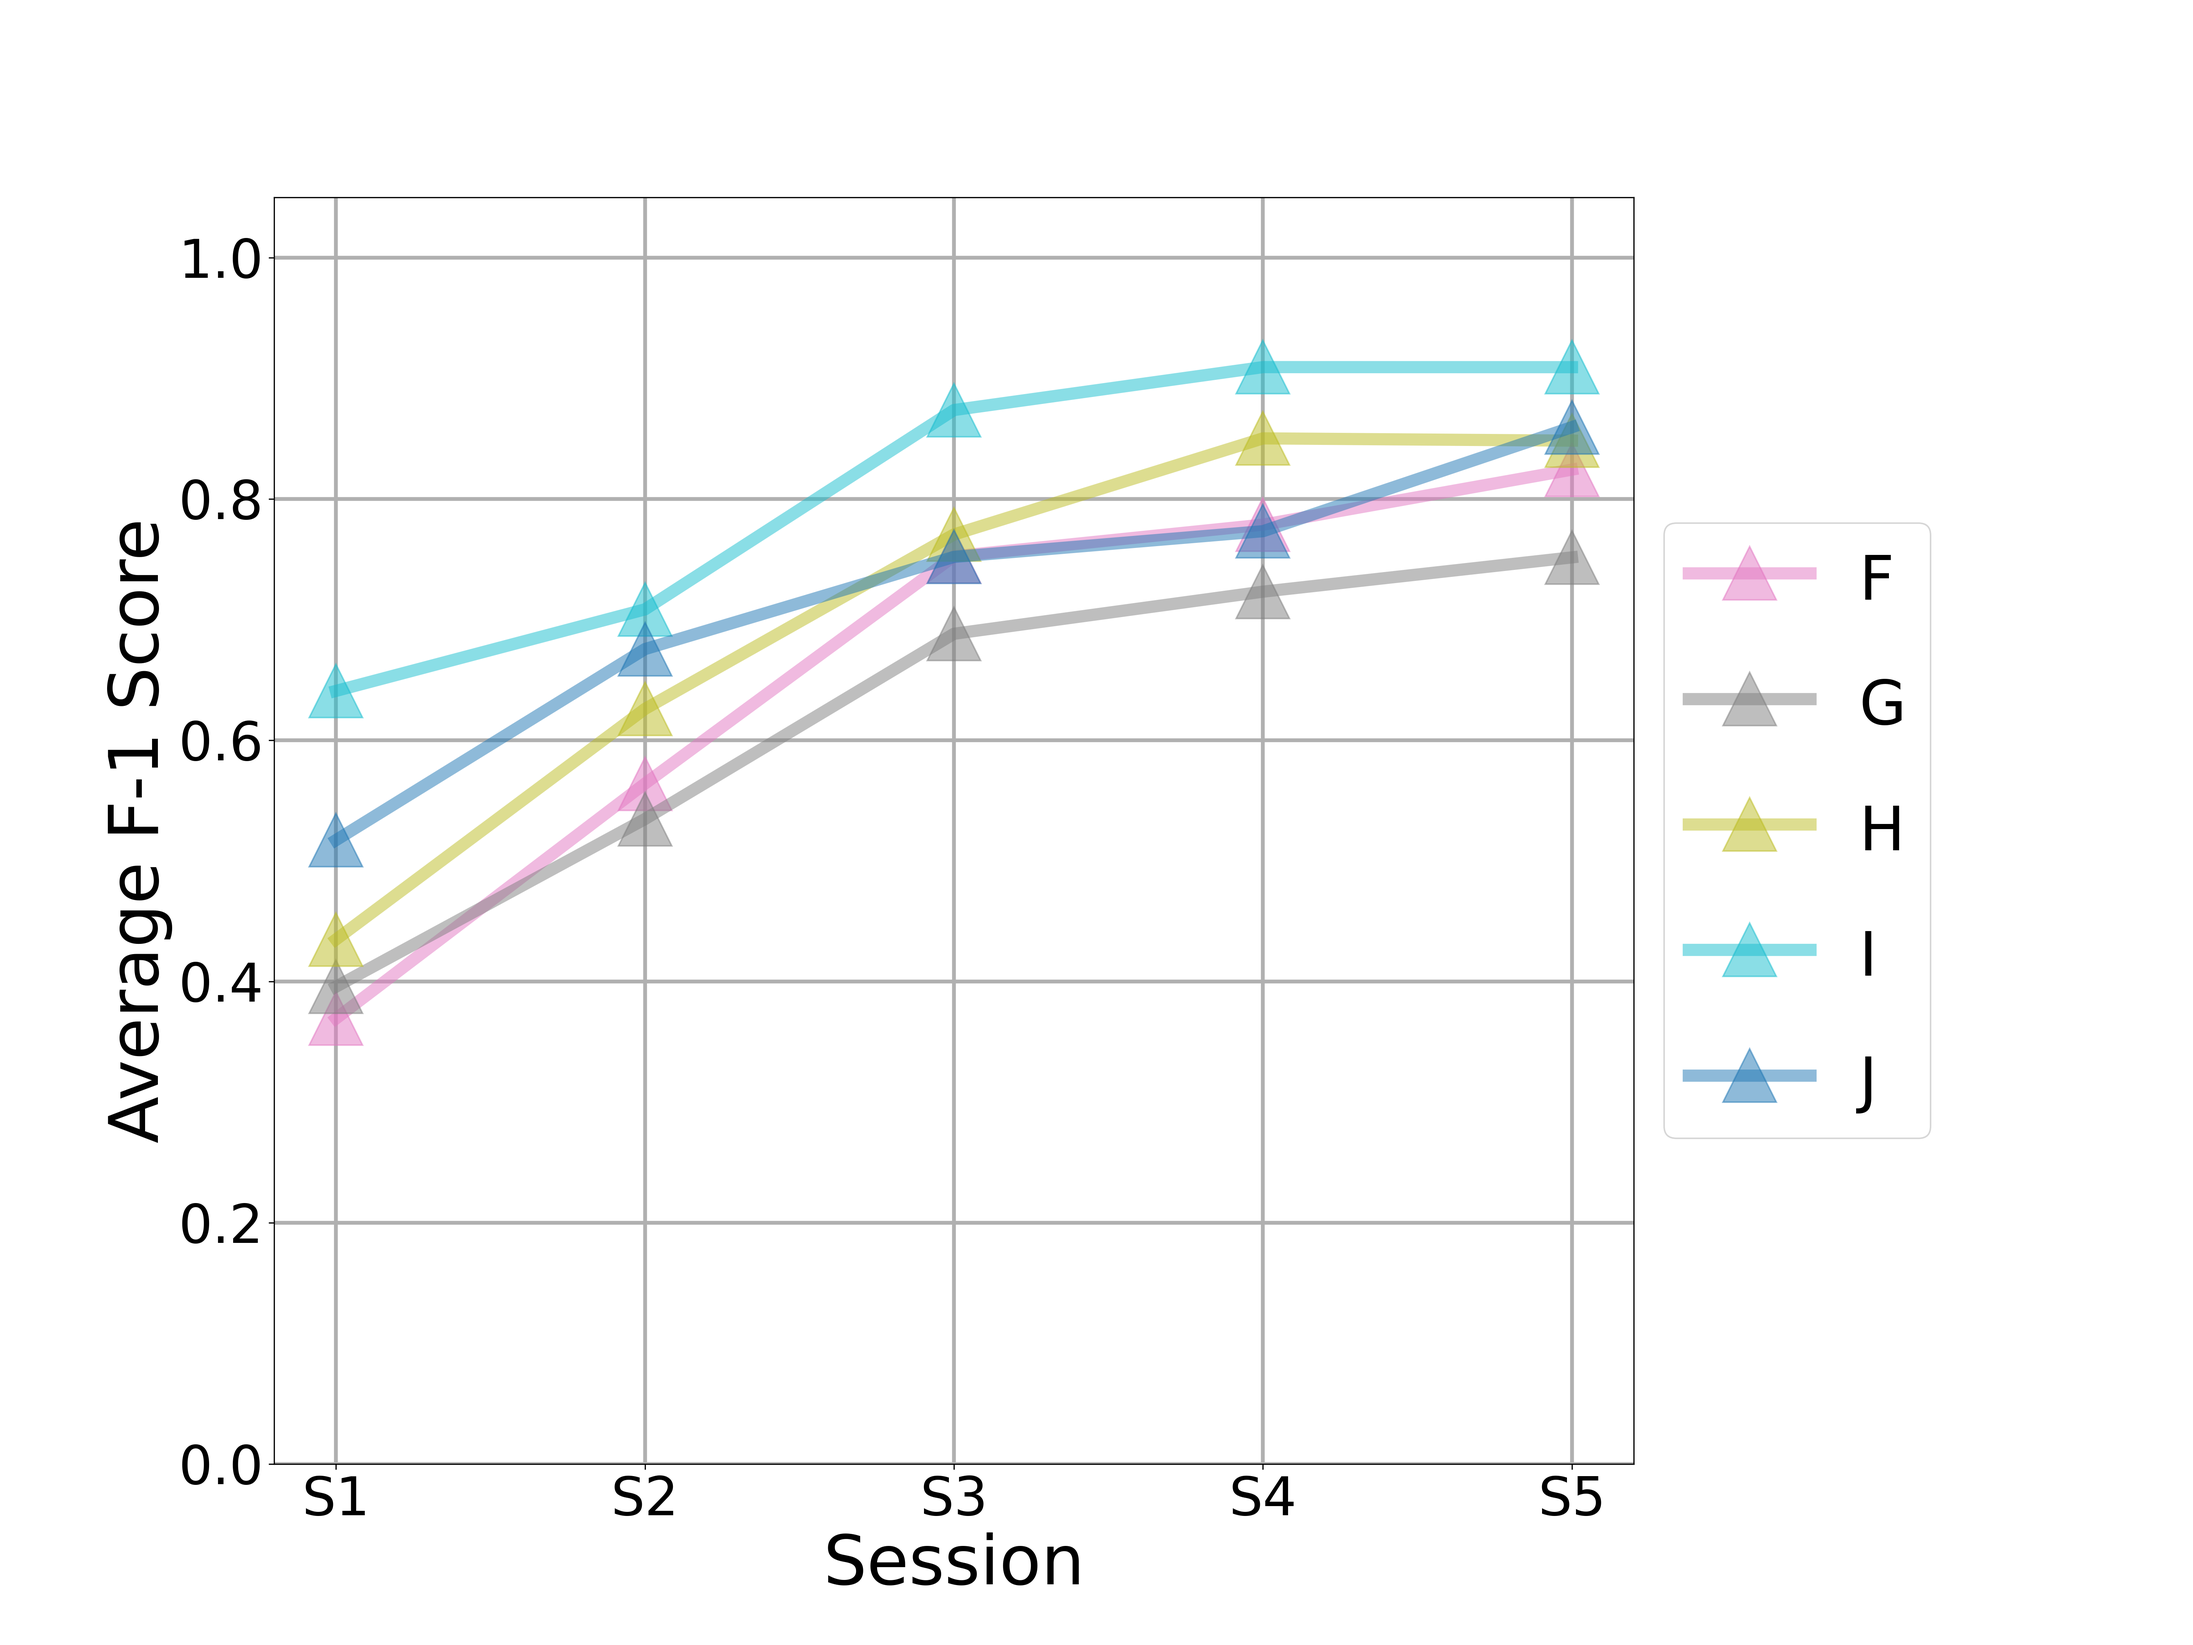
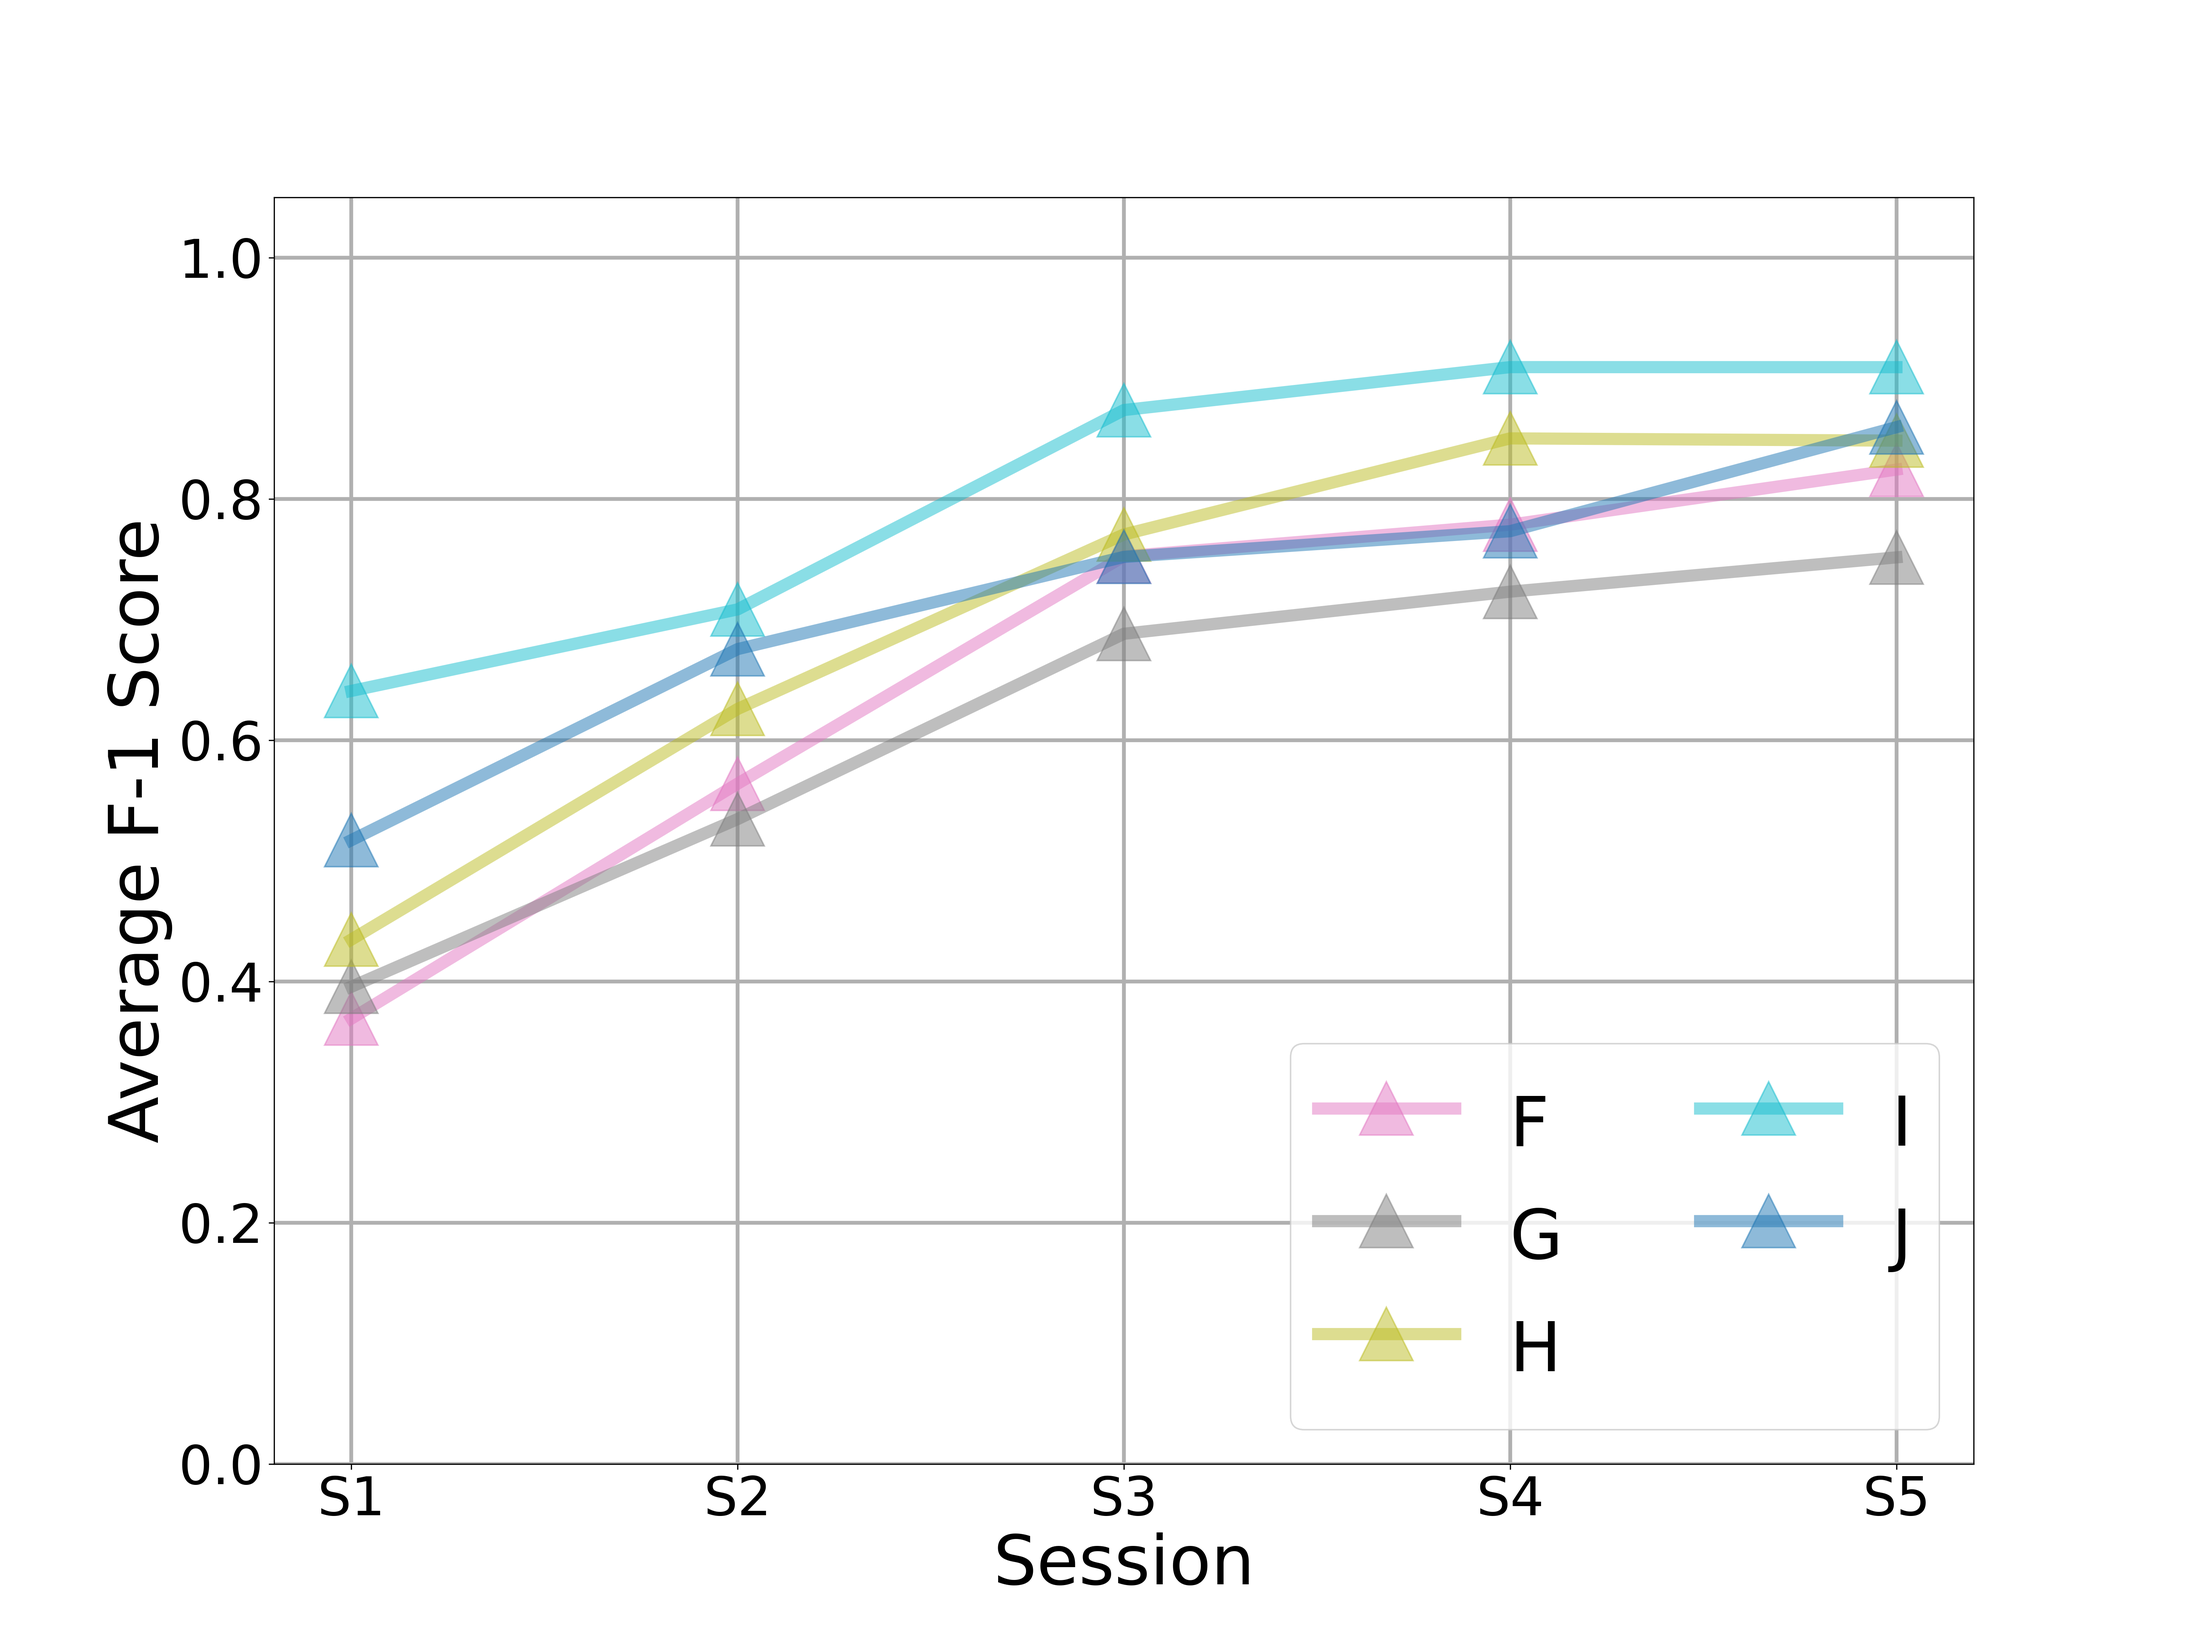
last layer trainable add

diff --git a/analysis/User_Study2_Analysis/accuracy_adaption_transfer_base_model.py b/analysis/User_Study2_Analysis/accuracy_adaption_transfer_base_model.py
@@ -172,13 +172,13 @@ plt.rcParams['axes.titlesize'] = 40
 
 char_split_group = [range(0, 5), range(5, 10), range(10, 15), range(15, 20), range(20, 25), range(25, 31)]
 
-for char_group in char_split_group:
-    ax, fig = plot_dataframe_group_line(average_char_f1_df, plot_group=char_group, ylabel='Average F-1 Score')
-    file_name = 'average_char_f1_' + \
-                char_column_name[char_group[0]] + '_' + \
-                char_column_name[char_group[-1]]
-    fig.savefig(os.path.join('char_f1', file_name)
-                , dpi=300)
+# for char_group in char_split_group:
+#     ax, fig = plot_dataframe_group_line(average_char_f1_df, plot_group=char_group, ylabel='Average F-1 Score')
+#     file_name = 'average_char_f1_' + \
+#                 char_column_name[char_group[0]] + '_' + \
+#                 char_column_name[char_group[-1]]
+#     fig.savefig(os.path.join('char_f1', file_name)
+#                 , dpi=300)
 
 char_split_group = [range(0, 8), range(8, 16)]
 
@@ -186,12 +186,12 @@ for char_group in char_split_group:
     ax, fig = plot_dataframe_group_line(transfer_model_f1_df, plot_group=char_group, ylabel='Average F-1 Score', ncol=4)
     file_name = 'transfer_model_f1_' + str(char_group[1] + 1) + '_' + str(char_group[-1] + 1)
     fig.savefig(os.path.join('user_f1/transfer_model', file_name)
-                , dpi=300)
+                , dpi=200)
 for char_group in char_split_group:
     ax, fig = plot_dataframe_group_line(original_model_f1_df, plot_group=char_group, ylabel='Average F-1 Score', ncol=4)
     file_name = 'original_model_f1_' + str(char_group[1] + 1) + '_' + str(char_group[-1] + 1)
     fig.savefig(os.path.join('user_f1/original_model', file_name)
-                , dpi=300)
+                , dpi=200)
 
 # plot_group = range(0, 4)
 #

diff --git a/analysis/User_Study1_Analysis/user_study1_transfer_analysis.py b/analysis/User_Study1_Analysis/user_study1_transfer_analysis.py
@@ -22,7 +22,7 @@ for dir in os.listdir(result_dir):
     if dir.startswith('Sub'):
         subject_index = int(dir[3])
         transfer_learning_best_cm_hist_dict_path = os.path.join(result_dir, dir, 'auto_save',
-                                                                'transfer_info',
+                                                                'transfer_unfreezeall_info',
                                                                 'transfer_learning_best_cm_hist_dict')
         print(transfer_learning_best_cm_hist_dict_path)
 
@@ -60,7 +60,7 @@ plt.yticks(np.arange(0, 1.1, 0.1))
 
 plt.xlabel('Feed in Sample Number / Class', fontsize=18)
 plt.ylabel('Leave-Out Samples Validation Accuracy', fontsize=18)
-plt.title('Last Layers Trainable 20 Sample/Class 10 Fold', fontsize=20)
+plt.title('All Layers Trainable 20 Sample/Class 10 Fold', fontsize=20)
 
 plt.savefig("user_study1_all_trainable_finalize",dpi=300)
 plt.show()
@@ -89,3 +89,4 @@ plt.savefig("user_study1_all_trainable_finalize_average",dpi=300)
 
 plt.show()
 
+print(avg_ratio)
